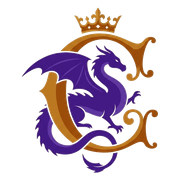
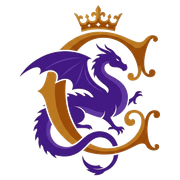
feat(branding): unify frameless Cormyr crest and horizontal signature across entire site

diff --git a/public/cormyr/index.html b/public/cormyr/index.html
@@ -1,5 +1,5 @@
 <!doctype html>
-<html lang="pt-BR"><head><meta charset="utf-8"><meta name="viewport" content="width=device-width, initial-scale=1"><meta name="theme-color" content="#241334"><meta name="description" content="Atlas Cormyr: casas nobres, hierarquias, aventuras e 200 eventos para narrar a campanha em Cormyr."><title>Atlas de Cormyr</title><link rel="icon" type="image/svg+xml" href="brand/cormyr-icone-favicon.svg"><link rel="icon" type="image/png" sizes="32x32" href="brand/favicon-32x32.png"><link rel="apple-touch-icon" sizes="180x180" href="brand/apple-touch-icon-180x180.png"><link rel="preconnect" href="https://fonts.googleapis.com"><link rel="preconnect" href="https://fonts.gstatic.com" crossorigin><link rel="stylesheet" href="https://fonts.googleapis.com/css2?family=Cinzel:wght@600;700;800&family=UnifrakturMaguntia&display=swap"><link rel="stylesheet" href="style.css?v=20261127compact2"><link rel="stylesheet" href="nobility-layout.css?v=20261127hist1"><link rel="preload" as="script" href="app.js?v=20261127hist1"><script src="data.js?v=20261120c" defer></script><script src="youtube-media.js?v=20261120c" defer></script><script src="soundtrack.js?v=20261120c" defer></script><script src="nobility-format.js?v=20261127hist1" defer></script><script src="nobility-navigation.js?v=20261127p34" defer></script><script src="gm-loader.js?v=20261122calendar" defer></script><script src="extras.js?v=20261120c" defer></script><script src="music-player.js?v=20261120c" defer></script><script src="language.js?v=20261120c" defer></script><script src="search.js?v=20261120c" defer></script><script src="campaign-time.js?v=20261120c" defer></script></head>
+<html lang="pt-BR"><head><meta charset="utf-8"><meta name="viewport" content="width=device-width, initial-scale=1"><meta name="theme-color" content="#241334"><meta name="description" content="Atlas Cormyr: casas nobres, hierarquias, aventuras e 200 eventos para narrar a campanha em Cormyr."><title>Atlas de Cormyr</title><link rel="icon" type="image/svg+xml" href="brand/cormyr-icone-favicon.svg"><link rel="icon" type="image/png" sizes="32x32" href="brand/favicon-32x32.png"><link rel="apple-touch-icon" sizes="180x180" href="brand/apple-touch-icon-180x180.png"><link rel="preconnect" href="https://fonts.googleapis.com"><link rel="preconnect" href="https://fonts.gstatic.com" crossorigin><link rel="stylesheet" href="https://fonts.googleapis.com/css2?family=Cinzel:wght@600;700;800&family=UnifrakturMaguntia&display=swap"><link rel="stylesheet" href="style.css?v=20261127brand"><link rel="stylesheet" href="nobility-layout.css?v=20261127hist1"><link rel="preload" as="script" href="app.js?v=20261127hist1"><script src="data.js?v=20261120c" defer></script><script src="youtube-media.js?v=20261120c" defer></script><script src="soundtrack.js?v=20261120c" defer></script><script src="nobility-format.js?v=20261127hist1" defer></script><script src="nobility-navigation.js?v=20261127p34" defer></script><script src="gm-loader.js?v=20261122calendar" defer></script><script src="extras.js?v=20261120c" defer></script><script src="music-player.js?v=20261120c" defer></script><script src="language.js?v=20261120c" defer></script><script src="search.js?v=20261120c" defer></script><script src="campaign-time.js?v=20261120c" defer></script></head>
 <body><a class="skip" href="#conteudo">Pular para o conteúdo</a>
 <aside class="sidebar"><header class="brand"><a class="cormyr-signature" href="#reino" aria-label="Atlas de Cormyr — início"><img class="cormyr-signature-mark" src="/cormyr/brand/cormyr-brasao.svg" width="64" height="75" alt="" aria-hidden="true"><span class="cormyr-signature-divider" aria-hidden="true"><span class="cormyr-signature-gem">◆</span></span><span class="cormyr-signature-copy"><span class="cormyr-signature-kicker">ATLAS DE</span><strong class="cormyr-signature-word">CORMYR</strong><span class="cormyr-signature-tagline">CRÔNICAS DO REINO</span></span></a></header>
 <nav class="nav" aria-label="Navegação principal"><p class="nav-label">ACERVO DA CAMPANHA</p><a href="#reino" data-view="reino" class="active" aria-current="page">O Reino</a><a href="#regioes" data-view="regioes">Regiões</a><a href="#nobreza" data-view="nobreza">Nobreza</a><a href="#jornal" data-view="jornal">Jornal</a><a href="#calendario" data-view="calendario">Calendário</a><a href="#constituicao" data-view="constituicao">Constituição de Cormyr</a><a href="#musicas" data-view="musicas">Músicas</a><a href="#notebook-lm" data-view="notebook-lm">Notebook LM</a><a href="#eventos" data-view="eventos" data-narrator hidden>Eventos <span class="nav-count">200</span></a><a href="#aventura" data-view="aventura" data-narrator hidden>Aventuras</a></nav>
@@ -9,7 +9,7 @@
 <section id="view-reino" class="view kingdom-view" aria-labelledby="kingdom-title"><div class="page-heading kingdom-heading"><div><p class="eyebrow">A TERRA DO DRAGÃO PÚRPURA</p><h1 id="kingdom-title" tabindex="-1">O Reino de Cormyr</h1><p>Ano atual: 1522 CV, no Cômputo dos Vales. Dois anos após a Guerra Civil, a Coroa governa uma paz tensa.</p></div><div class="collection-count"><strong>11</strong> regiões <span>·</span> <strong id="kingdom-house-count">172</strong> casas</div></div>
 <div class="kingdom-intro panel"><p>Situado na extremidade ocidental do Mar das Estrelas Cadentes e banhado pelas águas do Dragonmere, Cormyr é uma das nações mais antigas, ricas e organizadas de Faerûn. Conhecido historicamente como a Terra da Floresta e a Terra do Dragão Púrpura, o reino ergueu-se sob o império da lei, da cavalaria e de um delicado equilíbrio entre a autoridade real e o poder de suas grandes famílias.</p><p>Em 1522 CV, Cormyr atravessa uma paz tensa. Apenas dois anos após o encerramento da Guerra Civil de 1520 CV, as estradas voltaram a escoar mercadorias para Suzail e os estandartes foram recolhidos, mas a reconstrução política ainda está em curso. Sob o reinado de Musgrave Phelles, a Coroa concentra esforços na estabilização das fronteiras e na governança das onze regiões que compõem o reino.</p></div>
 <div class="kingdom-stage"><section class="kingdom-map panel" aria-labelledby="kingdom-map-title"><div class="region-map-heading"><h2 id="kingdom-map-title">Mapa Regional de Cormyr</h2><p class="small">Selecione uma região no mapa para abrir sua página.</p></div><figure class="kingdom-map-figure"><img src="/maps/cormyr-reino.webp" alt="Mapa Regional de Cormyr com Suzail, o Dragonmere e as onze regiões do reino" width="2400" height="1792" decoding="async"><div id="kingdom-map-hotspots" class="kingdom-map-hotspots"></div></figure><p id="kingdom-map-hint" class="kingdom-map-hint" role="status" aria-live="polite">Passe o cursor sobre uma região para ver seu resumo.</p><div class="region-map-actions"><button type="button" class="quiet" id="kingdom-map-expand" aria-label="Ampliar o Mapa Regional de Cormyr">Ampliar</button><a class="quiet map-download" href="/maps/cormyr-reino.webp" download="Mapa-Regional-de-Cormyr-1522.webp" aria-label="Baixar o Mapa Regional de Cormyr">Baixar Mapa</a></div><nav class="kingdom-region-links" aria-label="Atalhos para as regiões"><p class="eyebrow">AS ONZE REGIÕES</p><div id="kingdom-region-links"></div></nav><p class="small kingdom-geo-note">O território estende-se das áreas portuárias e mercantis ao redor do Dragonmere e da Costa do Dragão até as florestas antigas do interior, os pântanos orientais e as fronteiras ásperas das montanhas e das StoneLands.</p></section>
-<aside class="kingdom-infobox panel" aria-labelledby="kingdom-infobox-title"><header><img src="assets/cormyr.jpg" width="88" height="108" alt="Brasão de Cormyr"><div><p class="eyebrow">FICHA DO REINO · 1522 CV</p><h2 id="kingdom-infobox-title">Reino de Cormyr</h2></div></header><dl><dt>Epítetos tradicionais</dt><dd>A Terra da Floresta; a Terra do Dragão Púrpura</dd><dt>Ano atual</dt><dd>1522 CV (Cômputo dos Vales)</dd><dt>Capital</dt><dd>Suzail (Crownlands)</dd><dt>Monarca atual</dt><dd>Rei Musgrave Phelles</dd><dt>Dinastia reinante</dt><dd>Casa Phelles, no Trono do Dragão desde 1372 CV</dd><dt>Forma de governo</dt><dd>Monarquia feudal constitucionalizada (<a href="#constituicao">Lex Castle</a>)</dd><dt>Forças armadas</dt><dd>Dragões Púrpura (exército), Dragões Azuis (marinha) e Magos de Guerra</dd><dt>Corpo administrativo</dt><dd>Ordem dos Tillets</dd><dt>Divisão territorial</dt><dd>11 regiões</dd><dt>Moeda oficial</dt><dd><ul class="kingdom-coins"><li><b>Polegar</b> cobre</li><li><b>Falcão</b> prata</li><li><b>Leão de Ouro</b> ouro</li><li><b>Tricoroa</b> platina</li></ul></dd></dl></aside></div>
+<aside class="kingdom-infobox panel" aria-labelledby="kingdom-infobox-title"><header><img src="/cormyr/brand/cormyr-brasao-escuro.svg" width="64" height="64" alt="Brasão de Cormyr"><div><p class="eyebrow">FICHA DO REINO · 1522 CV</p><h2 id="kingdom-infobox-title">Reino de Cormyr</h2></div></header><dl><dt>Epítetos tradicionais</dt><dd>A Terra da Floresta; a Terra do Dragão Púrpura</dd><dt>Ano atual</dt><dd>1522 CV (Cômputo dos Vales)</dd><dt>Capital</dt><dd>Suzail (Crownlands)</dd><dt>Monarca atual</dt><dd>Rei Musgrave Phelles</dd><dt>Dinastia reinante</dt><dd>Casa Phelles, no Trono do Dragão desde 1372 CV</dd><dt>Forma de governo</dt><dd>Monarquia feudal constitucionalizada (<a href="#constituicao">Lex Castle</a>)</dd><dt>Forças armadas</dt><dd>Dragões Púrpura (exército), Dragões Azuis (marinha) e Magos de Guerra</dd><dt>Corpo administrativo</dt><dd>Ordem dos Tillets</dd><dt>Divisão territorial</dt><dd>11 regiões</dd><dt>Moeda oficial</dt><dd><ul class="kingdom-coins"><li><b>Polegar</b> cobre</li><li><b>Falcão</b> prata</li><li><b>Leão de Ouro</b> ouro</li><li><b>Tricoroa</b> platina</li></ul></dd></dl></aside></div>
 <section class="kingdom-chapters" aria-label="O Reino em quatro pilares"><div class="kingdom-tabs" role="tablist" aria-label="Capítulos do Reino"><button type="button" role="tab" id="kingdom-tab-coroa" data-kingdom-tab="coroa" aria-controls="kingdom-panel-coroa" aria-selected="true">A Coroa e os Phelles</button><button type="button" role="tab" id="kingdom-tab-casas" data-kingdom-tab="casas" aria-controls="kingdom-panel-casas" aria-selected="false" tabindex="-1">Reino de Casas Nobres</button><button type="button" role="tab" id="kingdom-tab-pilares" data-kingdom-tab="pilares" aria-controls="kingdom-panel-pilares" aria-selected="false" tabindex="-1">Pilares do Estado</button><button type="button" role="tab" id="kingdom-tab-linha" data-kingdom-tab="linha" aria-controls="kingdom-panel-linha" aria-selected="false" tabindex="-1">Linha do Tempo</button></div>
 <article id="kingdom-panel-coroa" class="kingdom-panel panel" role="tabpanel" aria-labelledby="kingdom-tab-coroa" tabindex="0"><div class="kingdom-panel-grid"><div><h3>A Coroa e a Dinastia Phelles</h3><p>O coração político de Cormyr pulsa no Trono do Dragão, em Suzail. Embora o reino tenha nascido em 26 CV sob a linhagem Obarskyr, a história recente pertence à Casa Phelles. Ascendendo ao trono em 1372 CV com o Rei-Bardo Mephisto Phelles após a queda dos Obarskyr, a dinastia consolidou-se ao longo de gerações de reformas, expansão territorial e sobrevivência militar, passando pela mão firme da Rainha de Ferro Olivier e pela vitória definitiva de Meriadoc Phelles contra o Lich Garkel.</p><p>Hoje, a Casa Phelles governa a partir de uma filosofia associada ao mérito, à reforma administrativa e à adaptação, em contraste direto com o ideário tradicionalista de sangue e linhagem ligado aos Obarskyr. Essa fratura explodiu na Guerra Civil de 1520 CV, quando forças tradicionalistas apoiaram o pretendente Azoun VI Obarskyr contra o Rei Musgrave Phelles. Com a derrota rebelde, Musgrave manteve o trono, mas governa um reino onde lealdades ainda são testadas em silêncio.</p><p><a href="#nobreza?house=phelles" class="kingdom-inline-link">Ver a ficha da Casa Phelles</a></p></div><aside class="kingdom-callout"><p class="eyebrow">ARTEFATO DO REINO</p><h4>A Coroa Real de Cormyr</h4><p>Mais do que um símbolo de soberania, a Coroa é um artefato lendário ligado à essência do reino. Seu uso exige rituais específicos de sintonização e impõe um fardo metafísico severo ao monarca, limitando o tempo em que qualquer soberano consegue portá-la continuamente.</p></aside></div></article>
 <article id="kingdom-panel-casas" class="kingdom-panel panel" role="tabpanel" aria-labelledby="kingdom-tab-casas" tabindex="0" hidden><h3>Um Reino de Casas Nobres</h3><p>Cormyr não é governado apenas do palácio em Suzail: sua espinha dorsal é uma malha de Casas Nobres distribuídas pelas onze regiões do reino. Cada grande região organiza-se em torno de casas suseranas e famílias vassalas que administram terras, rotas comerciais, fortalezas e forças locais.</p><p>Pela tradição jurídica cormyriana, hoje consolidada sob a Lex Castle, a nobreza detém suas terras e títulos pelo favor da Coroa. Em troca de prestígio, arrecadação e autonomia local, os lordes devem obediência à lei real, defesa das fronteiras e presença na Corte de Suzail. A lealdade, porém, nunca é estática: o rescaldo de 1520 CV deixou antigas casas fortalecidas por seu apoio aos Phelles e outras sob vigilância, tentando preservar sua influência dentro das regras da Constituição Real.</p><p class="kingdom-panel-actions"><a class="quiet" href="#nobreza">Consultar as Casas Nobres</a> <a class="quiet" href="#regioes">Explorar as regiões</a></p></article>

diff --git a/src/styles.css b/src/styles.css
@@ -1135,17 +1135,27 @@ button.military-pip:disabled{opacity:.35;cursor:not-allowed}
 .ht-chk-links{display:flex;gap:8px;flex-wrap:wrap;margin-top:10px}
 
 /* Identidade oficial compartilhada — o símbolo do dragão é o C inicial de Cormyr. */
-.cormyr-signature{display:inline-flex;align-items:center;gap:0;max-width:100%;min-width:0;white-space:nowrap;vertical-align:middle;color:inherit}
-.cormyr-signature__mark{display:block;flex:none;width:69px;height:76px;object-fit:contain;margin-right:-11px;border:0;border-radius:0;background:transparent}
+.cormyr-signature{display:inline-flex;align-items:center;gap:10px;max-width:100%;min-width:0;white-space:nowrap;vertical-align:middle;color:inherit}
+.cormyr-signature__mark{display:block;flex:none;width:58px;height:66px;object-fit:contain;margin:0;border:0;border-radius:0;background:transparent}
+.cormyr-signature__divider{width:12px;flex:0 0 12px;height:62px;display:flex;flex-direction:column;align-items:center;justify-content:center;gap:2px;margin:0}
+.cormyr-signature__divider::before,.cormyr-signature__divider::after{content:"";display:block;flex:1;min-height:8px;width:1px;background:rgba(218,192,141,.65)}
+.cormyr-signature__gem{display:block;margin:0;color:#dac08d;font:400 9px/1 Georgia,serif}
 .cormyr-signature__copy{display:flex;flex-direction:column;align-items:flex-start;justify-content:center;min-width:0}
-.cormyr-signature__kicker{display:block;font:700 10px/1.2 system-ui,sans-serif;letter-spacing:.17em;color:#dac08d}
-.cormyr-signature__word{display:block;font:700 28px/1.1 Georgia,'Times New Roman',serif;letter-spacing:.03em;color:#f4e7cb}
-.cormyr-signature__subtitle{display:block;margin-top:5px;font:600 9px/1.4 system-ui,sans-serif;letter-spacing:.085em;text-transform:uppercase;color:#c6aec9;white-space:normal}
+.cormyr-signature__kicker{display:block;font:700 10px/1.2 'Cinzel',Georgia,serif;letter-spacing:.15em;color:#dac08d}
+.cormyr-signature__word{display:block;margin:2px 0 1px;font:800 25px/1.05 'Cinzel',Georgia,'Times New Roman',serif;letter-spacing:.01em;color:#f7ead1}
+.cormyr-signature__subtitle{display:block;margin-top:2px;font:600 9px/1.3 'Cinzel',Georgia,serif;letter-spacing:.07em;text-transform:uppercase;color:#d6c3df;white-space:normal}
 .cormyr-signature__extra{display:block;margin-top:2px;white-space:normal;color:#d8c8dc;font:11px/1.35 system-ui,sans-serif}
-.cormyr-signature--compact .cormyr-signature__mark{width:47px;height:54px;margin-right:-8px}
-.cormyr-signature--compact .cormyr-signature__word{font-size:22px}
-.cormyr-signature--compact .cormyr-signature__kicker{font-size:9px}
-.campaign-brand .cormyr-signature__mark{width:69px;height:76px;object-fit:contain}
+.cormyr-signature--light .cormyr-signature__divider::before,.cormyr-signature--light .cormyr-signature__divider::after{background:rgba(181,137,58,.65)}
+.cormyr-signature--light .cormyr-signature__gem{color:#aa7d31}
+.cormyr-signature--light .cormyr-signature__kicker{color:#9a6b24}
+.cormyr-signature--light .cormyr-signature__word{color:#3f1863}
+.cormyr-signature--light .cormyr-signature__subtitle{color:#5c367c}
+.cormyr-signature--compact{gap:8px}
+.cormyr-signature--compact .cormyr-signature__mark{width:44px;height:50px}
+.cormyr-signature--compact .cormyr-signature__divider{width:10px;flex-basis:10px;height:46px}
+.cormyr-signature--compact .cormyr-signature__word{font-size:20px}
+.cormyr-signature--compact .cormyr-signature__kicker{font-size:8.5px}
+.campaign-brand .cormyr-signature__mark{width:58px;height:66px;object-fit:contain}
 .campaign-brand .cormyr-signature__subtitle{color:#d5c1d9}
 .campaign-brand .cormyr-signature__extra small{margin-top:0}
-@media(max-width:600px){.cormyr-signature__mark,.campaign-brand .cormyr-signature__mark{width:61px;height:68px;margin-right:-10px}.cormyr-signature__word{font-size:25px}.cormyr-signature__subtitle{font-size:8px}}
+@media(max-width:600px){.cormyr-signature__mark,.campaign-brand .cormyr-signature__mark{width:48px;height:54px}.cormyr-signature__divider{height:50px}.cormyr-signature__word{font-size:21px}.cormyr-signature__subtitle{font-size:8px}}

diff --git a/public/cormyr/public-calendar.css b/public/cormyr/public-calendar.css
@@ -237,10 +237,14 @@ html.is-embedded .chronicle{padding:4px 0 28px;max-width:none}
   .chronicle-toolbar input[type="search"],.chronicle-era-bar input[type="search"]{width:100%;min-width:0;flex:1 1 100%}
 }
 
-/* A marca oficial aparece quando o calendário é aberto fora do Atlas. */
-.chronicle-brand{display:inline-flex;align-items:center;gap:0;margin-bottom:12px;color:#2f1b3d;text-decoration:none}
-.chronicle-brand img{width:47px;height:52px;object-fit:contain;margin-right:-7px}
-.chronicle-brand span{display:flex;flex-direction:column}
-.chronicle-brand small{font:700 9px/1.2 system-ui,sans-serif;letter-spacing:.16em}
-.chronicle-brand strong{font:700 23px/1.1 Georgia,serif;letter-spacing:.025em}
+/* A marca oficial aparece quando o calendário é aberto fora do Atlas, no estilo horizontal do front. */
+.chronicle-brand{display:inline-flex;align-items:center;gap:10px;margin-bottom:14px;padding:10px 16px 10px 12px;border-radius:10px;border:1px solid rgba(181,137,58,.45);background:repeating-linear-gradient(135deg,rgba(153,120,56,.028) 0 2px,transparent 2px 12px),radial-gradient(ellipse at 45% 30%,#fffaf0,#f7eccf 67%,#ead6ad 100%);color:#3f1863;text-decoration:none}
+.chronicle-brand-mark{display:block;flex:0 0 auto;width:54px;height:62px;object-fit:contain;border:0;background:transparent}
+.chronicle-brand-divider{width:12px;flex:0 0 12px;height:62px;display:flex;flex-direction:column;align-items:center;justify-content:center;gap:2px}
+.chronicle-brand-divider::before,.chronicle-brand-divider::after{content:"";display:block;flex:1;min-height:8px;width:1px;background:rgba(181,137,58,.65)}
+.chronicle-brand-gem{display:block;color:#aa7d31;font:400 9px/1 Georgia,serif}
+.chronicle-brand-copy{display:flex;flex-direction:column;align-items:flex-start;justify-content:center}
+.chronicle-brand-copy small{color:#9a6b24;font:700 10px/1.2 'Cinzel',Georgia,serif;letter-spacing:.14em}
+.chronicle-brand-copy strong{color:#3f1863;font:800 24px/1.05 'Cinzel',Georgia,serif;letter-spacing:-.01em;margin:2px 0}
+.chronicle-brand-copy em{font-style:normal;color:#5c367c;font:600 9px/1.2 'Cinzel',Georgia,serif;letter-spacing:.04em}
 html.is-embedded .chronicle-brand{display:none}

diff --git a/public/cormyr/calendar.html b/public/cormyr/calendar.html
@@ -8,15 +8,19 @@
   <title>Calendário de Cormyr · Atlas de Cormyr</title>
   <link rel="icon" type="image/svg+xml" href="/cormyr/brand/cormyr-icone-favicon.svg">
   <link rel="icon" type="image/png" sizes="32x32" href="/cormyr/brand/favicon-32x32.png">
+  <link rel="apple-touch-icon" sizes="180x180" href="/cormyr/brand/apple-touch-icon-180x180.png">
+  <link rel="preconnect" href="https://fonts.googleapis.com">
+  <link rel="preconnect" href="https://fonts.gstatic.com" crossorigin>
+  <link rel="stylesheet" href="https://fonts.googleapis.com/css2?family=Cinzel:wght@600;700;800&display=swap">
   <script>if(window.self!==window.top||location.search.indexOf('embed=1')!==-1){document.documentElement.classList.add('is-embedded');}</script>
-  <link rel="stylesheet" href="/cormyr/public-calendar.css?v=20261126a">
+  <link rel="stylesheet" href="/cormyr/public-calendar.css?v=20261127brand">
   <script src="/cormyr/public-calendar.js?v=20261126a" defer></script>
 </head>
 <body>
 <main class="chronicle" id="chronicle-calendar">
   <header class="chronicle-heading">
     <div>
-      <a class="chronicle-brand" href="/cormyr/index.html" aria-label="Atlas de Cormyr — início"><img src="/cormyr/brand/cormyr-brasao.svg" alt="" width="47" height="52" aria-hidden="true"><span><small>ATLAS DE</small><strong>ORMYR</strong></span></a>
+      <a class="chronicle-brand" href="/cormyr/index.html" aria-label="Atlas de Cormyr — início"><img class="chronicle-brand-mark" src="/cormyr/brand/cormyr-brasao.svg" alt="" width="54" height="62" aria-hidden="true"><span class="chronicle-brand-divider" aria-hidden="true"><span class="chronicle-brand-gem">◆</span></span><span class="chronicle-brand-copy"><small>ATLAS DE</small><strong>CORMYR</strong><em>CRÔNICAS DO REINO</em></span></a>
       <p class="chronicle-eyebrow">ALMANAQUE DE HARPTOS · CORMYR</p>
       <h1>Calendário de Cormyr</h1>
       <p>Datas oficiais de Harptos, festivais do Reino e crônicas históricas.</p>

diff --git a/src/components/players/narrator/NarratorWorkspace.tsx b/src/components/players/narrator/NarratorWorkspace.tsx
@@ -3,7 +3,8 @@ import {isPlainLeftClick,useUrlSearch} from '@/lib/navigation/url-state';
 import {LanguageSwitcher} from '@/components/language-switcher';
 import {useTranslation} from '@/lib/i18n/context';
 import {NARRATION_GROUPS,narrationHouseIds} from '@/lib/mail-groups';
-import {CORMYR_CREST,Icon,NARRATOR_MOBILE,useMedia} from './narrator-ui';
+import {CormyrSignature} from '@/components/cormyr-signature';
+import {Icon,NARRATOR_MOBILE,useMedia} from './narrator-ui';
 import './narrator-workspace.css';
 
 // O relógio completo só existe na área autenticada; carregado sob demanda como em CampaignShell.
@@ -70,11 +71,11 @@ export function NarratorWorkspace({menu,extra,section,onSection,sectionHref,unre
  const inMore=secondary.some(([id])=>id===section);
  return <div className="campaign-theme nw-root">
   <header className="nw-top">
-   {(()=>{const body=<><img src={CORMYR_CREST} alt="" width={34} height={42}/>
-    <span><b>Atlas <em>Cormyr</em></b>
-     <span className="nw-clock"><Suspense fallback={<small>Consultando data oficial…</small>}><PrivateClockBody/></Suspense></span></span></>;
-    return <a className="nw-brand" href="/cormyr/index.html"
-      aria-label="Atlas Cormyr: voltar ao site público">{body}</a>;})()}
+   <a className="nw-brand" href="/cormyr/index.html" aria-label="Atlas de Cormyr: voltar ao site público">
+    <CormyrSignature compact subtitle="">
+     <span className="nw-clock"><Suspense fallback={<small>Consultando data oficial…</small>}><PrivateClockBody/></Suspense></span>
+    </CormyrSignature>
+   </a>
    <span className="nw-spacer"/>
    {(()=>{const props={className:'nw-week'+(openRound===null?' nw-week--closed':''),title:'Abrir o Hub Temporal',
      'aria-label':(openRound!==null?`Semana ${openRound} aberta`:'Nenhuma semana aberta')+'. Abrir o Hub Temporal'};

diff --git a/src/components/cormyr-signature.tsx b/src/components/cormyr-signature.tsx
@@ -1,17 +1,27 @@
 import type {ReactNode} from 'react';
 
-/** O C coroado do dragão substitui a inicial de Cormyr nas assinaturas. */
-export function CormyrSignature({subtitle='Crônicas do Reino',compact=false,children}:{
+/**
+ * Assinatura Horizontal Compacta oficial do Atlas de Cormyr:
+ * brasão sem moldura + filete dourado com losango + CORMYR por inteiro.
+ */
+export function CormyrSignature({subtitle='Crônicas do Reino',compact=false,tone='dark',children}:{
   subtitle?:string;
   compact?:boolean;
+  tone?:'dark'|'light';
   children?:ReactNode;
 }){
-  return <span className={'cormyr-signature'+(compact?' cormyr-signature--compact':'')}>
-    <img className="cormyr-signature__mark" src="/cormyr/brand/cormyr-brasao-escuro.svg"
-      alt="" aria-hidden="true" width={67} height={74}/>
+  const markSrc=tone==='light'
+    ?'/cormyr/brand/cormyr-brasao.svg'
+    :'/cormyr/brand/cormyr-brasao-escuro.svg';
+  return <span className={'cormyr-signature'+(compact?' cormyr-signature--compact':'')+(tone==='light'?' cormyr-signature--light':'')}>
+    <img className="cormyr-signature__mark" src={markSrc}
+      alt="" aria-hidden="true" width={60} height={68}/>
+    <span className="cormyr-signature__divider" aria-hidden="true">
+      <span className="cormyr-signature__gem">◆</span>
+    </span>
     <span className="cormyr-signature__copy">
       <span className="cormyr-signature__kicker">ATLAS DE</span>
-      <strong className="cormyr-signature__word">ORMYR</strong>
+      <strong className="cormyr-signature__word">CORMYR</strong>
       {subtitle&&<small className="cormyr-signature__subtitle">{subtitle}</small>}
       {children&&<span className="cormyr-signature__extra">{children}</span>}
     </span>

diff --git a/src/components/players/narrator/narrator-workspace.css b/src/components/players/narrator/narrator-workspace.css
@@ -12,11 +12,11 @@
 .nw-spacer{flex:1}
 
 /* Cabeçalho */
-.nw-top{height:58px;display:flex;align-items:center;gap:12px;padding:0 14px 0 12px;background:var(--nw-purple);color:#fffdf7;border-bottom:3px solid var(--nw-gold);z-index:30;min-width:0}
-.nw-brand{display:flex;align-items:center;gap:10px;min-width:0;background:none;border:0;padding:0;color:inherit;text-align:left;cursor:pointer}
-.nw-brand img{height:42px;width:auto;filter:drop-shadow(0 1px 2px rgb(0 0 0/.4))}
-.nw-brand b{display:block;font:600 19px/1.1 Georgia,serif;white-space:nowrap}
-.nw-brand b em{font-style:normal;color:var(--nw-gold)}
+.nw-top{min-height:66px;display:flex;align-items:center;gap:12px;padding:6px 14px 6px 12px;background:var(--nw-purple);color:#fffdf7;border-bottom:3px solid var(--nw-gold);z-index:30;min-width:0}
+.nw-brand{display:inline-flex;align-items:center;min-width:0;background:none;border:0;padding:0;color:inherit;text-align:left;text-decoration:none;cursor:pointer}
+.nw-brand .cormyr-signature__mark{width:44px;height:50px;filter:drop-shadow(0 1px 2px rgb(0 0 0/.35))}
+.nw-brand .cormyr-signature__divider{height:48px}
+.nw-brand .cormyr-signature__word{font-size:19px}
 .nw-clock,.nw-clock small{display:block;font-size:11.5px;line-height:1.3;color:#d9cfe4;white-space:nowrap;overflow:hidden;text-overflow:ellipsis;max-width:46vw}
 .nw-week{display:inline-flex;align-items:center;gap:7px;height:32px;padding:0 12px;border-radius:999px;border:1px solid rgb(191 155 94/.7);background:rgb(255 255 255/.06);color:#f4ead6;font-size:12.5px;font-weight:600;white-space:nowrap;cursor:pointer}
 .nw-week:hover{background:rgb(255 255 255/.12)}

diff --git a/src/components/newspaper/NewspaperCanvas.tsx b/src/components/newspaper/NewspaperCanvas.tsx
@@ -272,10 +272,10 @@ export function NewspaperCanvas({edition,editing=false,compactMasthead=false,sel
     {!editing&&minutes>0&&<span className="newspaper-reading-time">Leitura: cerca de {minutes} min</span>}
    </div>:<p>O CORREIO DO REINO · CORMYR · EDIÇÃO {String(edition.edition_no).padStart(3,'0')}</p>}
    <div className="newspaper-page-masthead">
-    <img className="newspaper-crest" src="/newspaper/brasao_reino.webp" alt="" aria-hidden="true"/>
+    <img className="newspaper-crest" src="/cormyr/brand/cormyr-brasao.svg" alt="" aria-hidden="true"/>
     <InlineText tag="h1" value={edition.title} editing={editing&&Boolean(onChangeEdition)}
      label="Editar nome do jornal" single onChange={title=>{if(title)onChangeEdition?.({title});}}/>
-    <img className="newspaper-crest newspaper-crest-mirror" src="/newspaper/brasao_reino.webp" alt="" aria-hidden="true"/>
+    <img className="newspaper-crest newspaper-crest-mirror" src="/cormyr/brand/cormyr-brasao.svg" alt="" aria-hidden="true"/>
    </div>
    {!compactMasthead&&<div className="newspaper-meta"><span>{formatDate(edition.campaign_date)}</span><span>Folha independente de Cormyr</span></div>}
    {(edition.subtitle||(editing&&onChangeEdition))&&<InlineText tag="h2" className="newspaper-subtitle"

diff --git a/src/routes/index.tsx b/src/routes/index.tsx
@@ -5,9 +5,9 @@ import { useEffect } from "react";
 export const Route = createFileRoute("/")({
   head: () => ({
     meta: [
-      { title: "Atlas Cormyr: Crônicas do Reino" },
-      { name: "description", content: "Atlas Cormyr: casas nobres, hierarquias, aventuras e 200 eventos para narrar a campanha em Cormyr." },
-      { property: "og:title", content: "Atlas Cormyr: Casas, regiões e crônicas" },
+      { title: "Atlas de Cormyr: Crônicas do Reino" },
+      { name: "description", content: "Atlas de Cormyr: casas nobres, hierarquias, aventuras e 200 eventos para narrar a campanha em Cormyr." },
+      { property: "og:title", content: "Atlas de Cormyr: Casas, regiões e crônicas" },
       { property: "og:description", content: "Casas nobres, hierarquias, aventuras e eventos da campanha em Cormyr." },
       { property: "og:type", content: "website" },
       { name: "twitter:card", content: "summary" },
@@ -22,7 +22,7 @@ function Index() {
   }, []);
   return (
     <div className="flex min-h-screen items-center justify-center bg-background text-foreground">
-      <a href="/cormyr/index.html">Abrindo o Atlas Cormyr…</a>
+      <a href="/cormyr/index.html">Abrindo o Atlas de Cormyr…</a>
     </div>
   );
 }

diff --git a/src/firebase-official.css b/src/firebase-official.css
@@ -41,20 +41,9 @@
   box-shadow:0 8px 28px #20122928;
 }
 .firebase-official-brand{
-  display:inline-flex;align-items:center;gap:15px;min-width:0;text-decoration:none;
-  font:clamp(23px,2.1vw,29px)/1.1 Georgia,'Times New Roman',serif;
-  letter-spacing:.015em;
+  display:inline-flex;align-items:center;min-width:0;text-decoration:none;
 }
-.firebase-official-brand img{width:54px;height:64px;object-fit:contain;filter:drop-shadow(0 2px 6px #0005)}
-.firebase-official-brand em{color:#e1c58c;font-style:normal}
-.firebase-official-brand small{
-  display:block;
-  font:11px/1.55 system-ui,sans-serif;
-  margin-top:7px;
-  letter-spacing:.13em;
-  text-transform:uppercase;
-  color:#d6c6d4;
-}
+.firebase-official-brand .cormyr-signature__mark{filter:drop-shadow(0 2px 6px #0005)}
 .firebase-official-top-actions{display:flex;align-items:center;justify-content:flex-end;gap:13px;flex-wrap:wrap}
 .firebase-official-kingdom{text-decoration:none;font-size:13px;opacity:.88}
 .firebase-official-kingdom:hover{text-decoration:underline;opacity:1}

diff --git a/src/components/firebase/FirebaseOfficialFrame.tsx b/src/components/firebase/FirebaseOfficialFrame.tsx
@@ -92,7 +92,7 @@ export function FirebaseOfficialFrame({
         <main className="firebase-official-main">
           <div className="firebase-official-pagehead">
             <p className="firebase-official-breadcrumb">
-              ATLAS CORMYR <span aria-hidden="true">/</span> {MODES[current].label.toUpperCase()}
+              ATLAS DE CORMYR <span aria-hidden="true">/</span> {MODES[current].label.toUpperCase()}
             </p>
             <h1>{MODES[current].label}</h1>
             <p>{subtitle}</p>
@@ -131,7 +131,7 @@ export function FirebaseOfficialHome({
         </button>
       </div>
       <div className="firebase-official-hero-insignia" aria-hidden="true">
-        <img src="/cormyr/brand/cormyr-icone-favicon.svg" alt=""/>
+        <img src="/cormyr/brand/cormyr-brasao-escuro.svg" alt=""/>
       </div>
     </div>
     <div className="firebase-official-quickstats" aria-label="Resumo dos serviços">

diff --git a/src/routes/reset-password.tsx b/src/routes/reset-password.tsx
@@ -8,10 +8,10 @@ const RESET_CODE=/^[A-Za-z0-9_-]{8,4096}$/;
 
 export const Route=createFileRoute('/reset-password')({
   head:()=>({meta:[
-    {title:'Redefinir senha · Atlas Cormyr'},
+    {title:'Redefinir senha · Atlas de Cormyr'},
     {name:'description',content:'Recuperação segura da conta Firebase.'},
     {name:'referrer',content:'no-referrer'},
-    {property:'og:title',content:'Redefinir senha · Atlas Cormyr'},
+    {property:'og:title',content:'Redefinir senha · Atlas de Cormyr'},
     {property:'og:description',content:'Defina uma nova senha para sua conta Firebase.'},
     {property:'og:type',content:'website'},
     {name:'twitter:card',content:'summary'},
